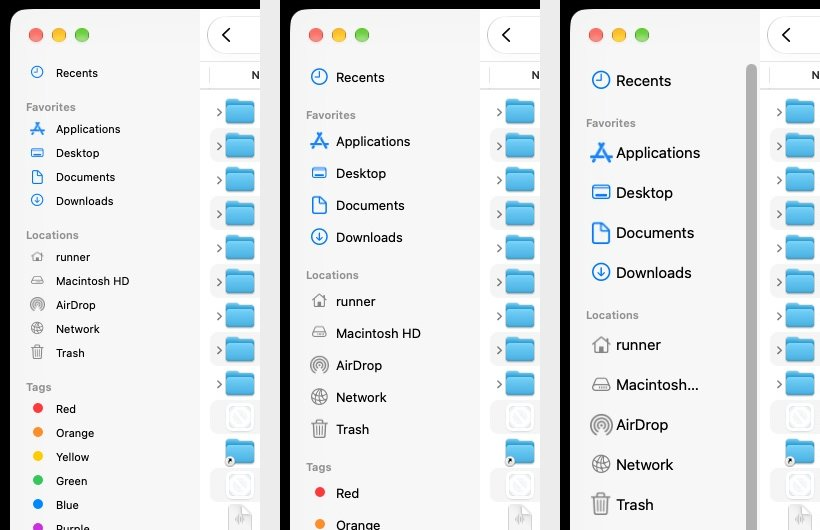
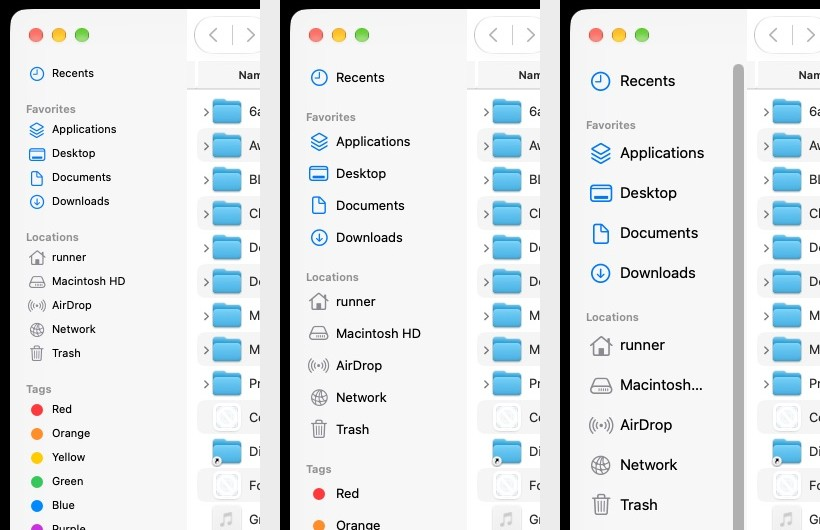
README: 0.1.2 alpha note and the new sidebar sizes screenshot

diff --git a/README.md b/README.md
@@ -16,7 +16,7 @@ Everything Finder does — and the things it should have done all along — with
   <img src="docs/screenshots/list.jpg" alt="Diski list view" width="900">
 </p>
 
-> **Alpha (0.1).** Diski is young: it is fast and already does a lot, but expect rough edges. Please [report issues](https://github.com/jordylegrand-cpu/Diski/issues).
+> **Alpha (0.1.2).** Diski is young: it is fast and already does a lot, but expect rough edges. Please [report issues](https://github.com/jordylegrand-cpu/Diski/issues).
 
 ## Install
 
